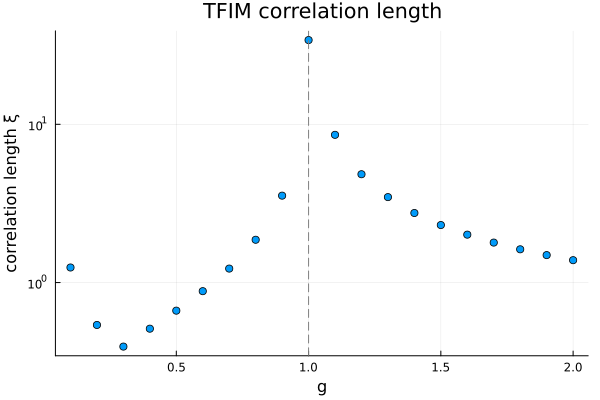
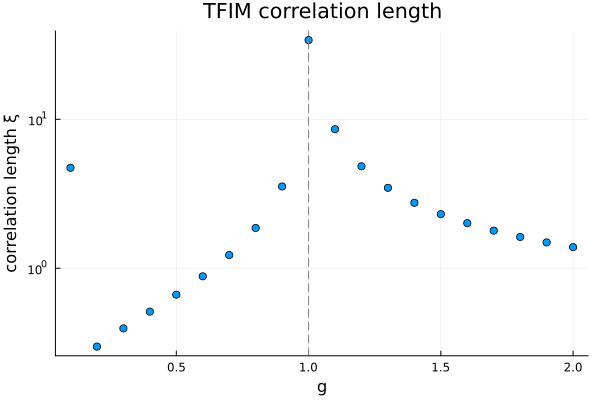
docs(examples): re-render tfim + hubbard pages after prose edits

diff --git a/docs/src/examples/quantum1d/6.hubbard/index.md b/docs/src/examples/quantum1d/6.hubbard/index.md
@@ -18,7 +18,7 @@ a kinetic term that allows electrons to hop between neighboring sites, and a pot
 Often, a third term is included which serves as a chemical potential to control the number of electrons in the system.
 
 ```math
-H = -t \sum_{\langle i, j \rangle, \sigma} c^{\dagger}_{i,\sigma} c_{j,\sigma} + U \sum_i n_{i,\uparrow} n_{i,\downarrow} - \mu \sum_{i,\sigma} n_{i,\sigma}
+H = -t ∑_{⟨i, j⟩, σ} c^{†}_{i,σ} c_{j,σ} + U ∑_i n_{i,↑} n_{i,↓} - μ ∑_{i,σ} n_{i,σ}
 ```
 
 At half-filling, the system exhibits particle-hole symmetry, which can be made explicit by rewriting the Hamiltonian slightly.
@@ -26,13 +26,13 @@ First, we fix the overall energy scale by setting `t = 1`, and then shift the to
 This results in the following Hamiltonian:
 
 ```math
-H = - \sum_{\langle i, j \rangle, \sigma} c^{\dagger}_{i,\sigma} c_{j,\sigma} + U / 4 \sum_i (1 - 2 n_{i,\uparrow}) (1 - 2 n_{i,\downarrow}) - \mu \sum_{i,\sigma} n_{i,\sigma}
+H = - ∑_{⟨i, j⟩, σ} c^{†}_{i,σ} c_{j,σ} + U / 4 ∑_i (1 - 2 n_{i,↑}) (1 - 2 n_{i,↓}) - μ ∑_{i,σ} n_{i,σ}
 ```
 
 Finally, setting `\mu = 0` and defining `u = U / 4` we obtain the Hubbard model at half-filling.
 
 ```math
-H = - \sum_{\langle i, j \rangle, \sigma} c^{\dagger}_{i,\sigma} c_{j,\sigma} + u \sum_i (1 - 2 n_{i,\uparrow}) (1 - 2 n_{i,\downarrow})
+H = - ∑_{⟨i, j⟩, σ} c^{†}_{i,σ} c_{j,σ} + u ∑_i (1 - 2 n_{i,↑}) (1 - 2 n_{i,↓})
 ```
 
 ````julia
@@ -65,7 +65,7 @@ For this case, the ground state energy has an analytic solution, which can be us
 It follows from Eq. (6.82) in [Essler, Frahm, Göhmann, Klümper & Korepin, The One-Dimensional Hubbard Model](https://doi.org/10.1017/CBO9780511534843).
 
 ```math
-e(u) = - u - 4 \int_0^{\infty} \frac{d\omega}{\omega} \frac{J_0(\omega) J_1(\omega)}{1 + \exp(2u \omega)}
+e(u) = - u - 4 ∫₀^{∞} \frac{dω}{ω} \frac{J₀(ω) J₁(ω)}{1 + \exp(2u ω)}
 ```
 
 We can easily verify this by comparing the numerical results to the analytic solution.
@@ -73,7 +73,7 @@ We can easily verify this by comparing the numerical results to the analytic sol
 ````julia
 function hubbard_energy(u; rtol = 1.0e-12)
     integrandum(ω) = besselj0(ω) * besselj1(ω) / (1 + exp(2u * ω)) / ω
-    int, err = quadgk(integrandum, 0, Inf; rtol = rtol)
+    int, err = quadgk(integrandum, 0, Inf; rtol)
     return -u - 4 * int
 end
 
@@ -122,7 +122,7 @@ Groundstate energy:
 
 ````
 [ Info: CG: initializing with f = -4.379763091095e+00, ‖∇f‖ = 3.1534e-05
-[ Info: CG: converged after 167 iterations and time  1.66 m: f = -4.379763081900e+00, ‖∇f‖ = 9.7406e-07
+[ Info: CG: converged after 167 iterations and time  1.75 m: f = -4.379763081900e+00, ‖∇f‖ = 9.7406e-07
 ┌ Info: Groundstate energy:
 │     * numerical: -2.189996060974577
 └     * analytic: -2.190038374277775
@@ -132,7 +132,7 @@ Groundstate energy:
 ## Symmetries
 
 The Hubbard model has a rich symmetry structure, which can be exploited to speed up simulations.
-Apart from the fermionic parity, the model also has a $U(1)$ particle number symmetry, along with a $SU(2)$ spin symmetry.
+Apart from the fermionic parity, the model also has a ``U(1)`` particle number symmetry, along with a ``SU(2)`` spin symmetry.
 Explicitly imposing these symmetries on the tensors can greatly reduce the computational cost of the simulation.
 
 Naively imposing these symmetries however, is not compatible with our desire to work at half-filling.
@@ -159,7 +159,7 @@ Groundstate energy:
 
 ````
 [ Info: CG: initializing with f = -4.379692711472e+00, ‖∇f‖ = 5.7923e-05
-[ Info: CG: converged after 13 iterations and time 14.39 s: f = -4.379692712393e+00, ‖∇f‖ = 6.2087e-07
+[ Info: CG: converged after 13 iterations and time 14.35 s: f = -4.379692712393e+00, ‖∇f‖ = 6.2087e-07
 ┌ Info: Groundstate energy:
 │     * numerical: -2.190015347514472
 └     * analytic: -2.190038374277775
@@ -173,7 +173,7 @@ The elementary excitations are known as spinons and holons, which are domain wal
 The fact that the spin and charge sectors are separate is a phenomenon known as spin-charge separation.
 
 The domain walls can be constructed by noticing that there are two equivalent groundstates, which differ by a translation over a single site.
-In other words, the groundstates are ``\psi_{AB}` and ``\psi_{BA}``, where ``A`` and ``B`` are the two sites.
+In other words, the groundstates are ``\psi_{AB}`` and ``\psi_{BA}``, where ``A`` and ``B`` are the two sites.
 These excitations can be constructed as follows:
 
 ````julia
@@ -321,7 +321,7 @@ end
 The plot shows some discrepancies between the numerical and analytic results.
 First and foremost, we must realize that in the thermodynamic limit, the momentum of a domain wall is actually not well-defined.
 Concretely, only the difference in momentum between the two groundstates is well-defined, as we can always shift the momentum by multiplying one of the groundstates by a phase.
-Here, we can fix this shift by realizing that our choice of shifting the groundstates by a single site, differs from the formula by a factor ``\pi/2``.
+Here, we can fix this shift by realizing that our choice of shifting the groundstates by a single site, differs from the formula by a factor ``π/2``.
 
 ````julia
 momenta_shifted = rem2pi.(momenta .- π / 2, RoundNearest)

diff --git a/docs/src/examples/quantum1d/0.tfim-groundstate/index.md b/docs/src/examples/quantum1d/0.tfim-groundstate/index.md
@@ -121,21 +121,11 @@ p_magnetization
 
 ![](figure-1.png)
 
-Both calculations agree deep in either phase, but near the transition they tell very
-different stories.
-The infinite curve stays on its ordered branch essentially up to `g = 1` and then
-collapses: it locates the critical point cleanly.
-The finite-chain curve instead drops to zero far earlier — at this `L` and `D` the
-variational optimum on the open chain switches from the symmetry-broken branch to the
-exactly symmetric ground state, whose magnetization vanishes.
-Where that switch happens is set by `L`, `D`, and even the random starting state, not by
-the physics; the same sweep at `D = 4` in
-[Your first ground state](@ref tutorial_first_groundstate) puts it elsewhere.
-That is the real lesson of this panel: the finite-chain order parameter is dominated by
-which state the algorithm selects, while the calculation performed directly in the
-thermodynamic limit pins the transition at `g = 1`.
-
-<!-- REVIEW: empirical behavior after the switch to the open chain — at D = 8 the finite curve collapses to the symmetric state already around g ≈ 0.25 (at D = 4 in the tutorial: around g ≈ 0.65). The paragraph frames the finite curve as an algorithm-selection effect rather than a rounded transition. Please confirm this framing. -->
+Both calculations agree deep in either phase, but near the transition they tell very different stories.
+The infinite curve stays on its ordered branch essentially up to `g = 1` and then collapses: it locates the critical point cleanly.
+The finite-chain curve instead drops to zero far earlier — at this `L` and `D` the variational optimum on the open chain switches from the symmetry-broken branch to the exactly symmetric ground state, whose magnetization vanishes.
+Where that switch happens is set by `L` and `D`, not by the physics; the same sweep at `D = 4` in [Your first ground state](@ref tutorial_first_groundstate) puts it elsewhere.
+That is the real lesson of this panel: the finite-chain order parameter is dominated by which state the algorithm selects, while the calculation performed directly in the thermodynamic limit pins the transition at `g = 1`.
 
 ## 2. Entanglement entropy across the transition
 
